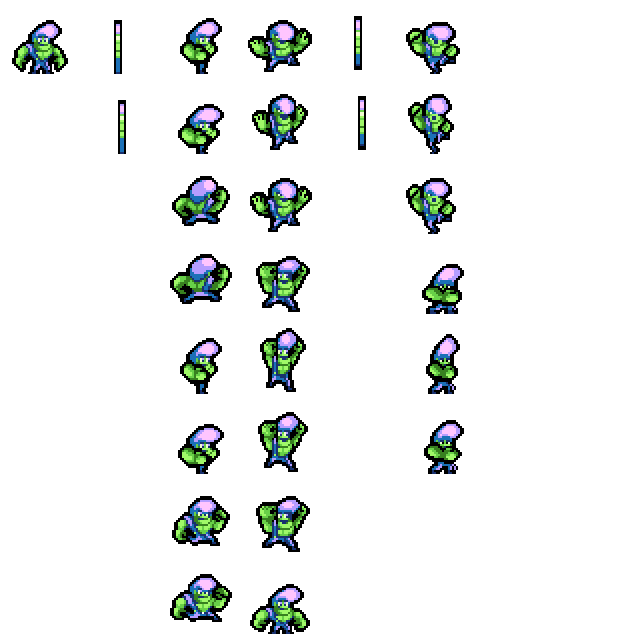
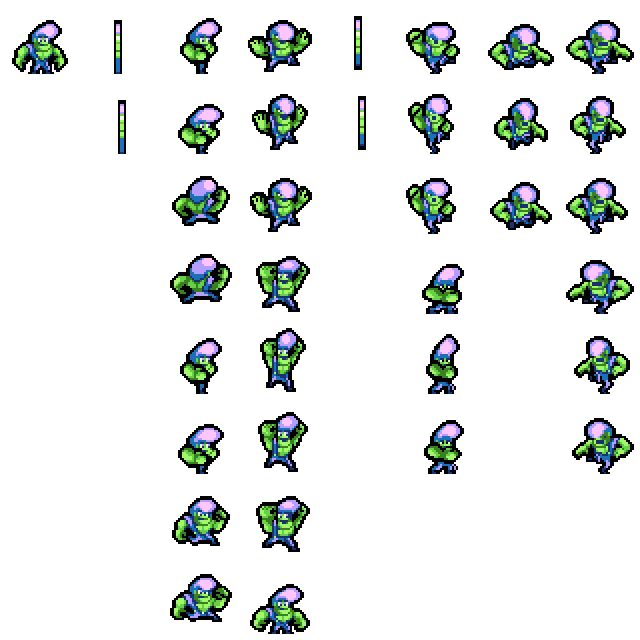
added hurt/status animation code, can no longer use items/weapons while hurt or already attacking (fixes #2), cannot do anything while hurt

diff --git a/src/component/Player.js b/src/component/Player.js
@@ -175,50 +175,52 @@ Player.prototype.update = function(time) {
 		vfa = 0;
 	}
 
-	var controls = [],
-		strength = this.grounded ? gGroundWalk : gAirWalk;
-	if (keys[kLeft]) {
-		va -= strength;
-		controls.push('left');
+	var controls = [];
+	if (!sprite.flags.noControl) {
+		var strength = this.grounded ? gGroundWalk : gAirWalk;
+		if (keys[kLeft]) {
+			va -= strength;
+			controls.push('left');
 
-		if (!sprite.flags.preventTurn) {
-			sprite.face(-1, this.grounded);
-			this.facing = dLeft;
-		}
-	} else if (keys[kRight]) {
-		va += strength;
-		controls.push('right');
+			if (!sprite.flags.noTurn) {
+				sprite.face(-1, this.grounded);
+				this.facing = dLeft;
+			}
+		} else if (keys[kRight]) {
+			va += strength;
+			controls.push('right');
 
-		if (!sprite.flags.preventTurn) {
-			sprite.face(1, this.grounded);
-			this.facing = dRight;
-		}
-	}
-
-	if (keys[kJump]) {
-		if (floor) {
-			vr += gJumpStrength;
-			this.jumpt = gJumpTimer;
-			controls.push('jump');
-			this.body.play('player.jump');
-		} else if (this.jumpt < gJumpDoubleTimer && jumpd && jumplg) {
-			this.jumpt = gJumpTimer;
-			this.jumpd = false;
-			vr = gJumpStrength;
-			controls.push('jumpd');
-			this.body.play('player.jump');
-		} else if (this.jumpt >= gJumpAffectTimer && !jumplg) {
-			vr += gJumpAffectStrength;
-			controls.push('jump+');
+			if (!sprite.flags.noTurn) {
+				sprite.face(1, this.grounded);
+				this.facing = dRight;
+			}
 		}
 
-		this.jumplg = false;
-	} else {
-		this.jumplg = true;
-	}
+		if (keys[kJump]) {
+			if (floor) {
+				vr += gJumpStrength;
+				this.jumpt = gJumpTimer;
+				controls.push('jump');
+				this.body.play('player.jump');
+			} else if (this.jumpt < gJumpDoubleTimer && jumpd && jumplg) {
+				this.jumpt = gJumpTimer;
+				this.jumpd = false;
+				vr = gJumpStrength;
+				controls.push('jumpd');
+				this.body.play('player.jump');
+			} else if (this.jumpt >= gJumpAffectTimer && !jumplg) {
+				vr += gJumpAffectStrength;
+				controls.push('jump+');
+			}
 
-	if (keys[kSwing]) controls.push('swing');
-	if (keys[kThrow]) controls.push('throw');
+			this.jumplg = false;
+		} else {
+			this.jumplg = true;
+		}
+
+		if (keys[kSwing]) controls.push('swing');
+		if (keys[kThrow]) controls.push('throw');
+	} else controls.push('nocontrol');
 
 	if (wall && !ceiling) {
 		flags.push('wall');
@@ -370,6 +372,7 @@ Player.prototype.hurt = function(by, damage) {
 
 	this.game.fire(ePlayerHurt, { by, damage });
 	this.voice.play('woody.hurt');
+	this.sprite.hurt();
 };
 
 Player.prototype.hurtTimer = function(t) {

diff --git a/src/spr/woody.js b/src/spr/woody.js
@@ -9,21 +9,10 @@ import {
 	aLand,
 	aThrow,
 	aAxe,
+	aHurt,
+	aStatus,
 } from '../anims';
 import { eThrow, eSwing } from '../events';
-
-/*
-Spritesheet Layout (72x72)
-
-Stand	FlipL	Run1	Jump1	JFlipL	Throw1
-		FlipR	Run2	Jump2	JFlipR	Throw2
-				Run3	Jump3			Throw3
-				Run4	Fall1			Throw4
-				Run5	Fall2			Throw5
-				Run6	Fall3			Throw6
-				Run7	Land1
-				Run8	Land2
-*/
 
 const animations = {
 	[aStand]: {
@@ -80,7 +69,7 @@ const animations = {
 
 	[aThrow]: {
 		priority: 2,
-		flags: { preventTurn: true },
+		flags: { noAttack: true, noTurn: true },
 		frames: [
 			{ c: 5, r: 0, t: 75 },
 			{ c: 5, r: 1, t: 75 },
@@ -93,7 +82,7 @@ const animations = {
 
 	[aAxe]: {
 		priority: 8,
-		flags: { preventTurn: true },
+		flags: { noAttack: true, noTurn: true },
 		frames: [
 			{ c: 5, r: 0, t: 75, hotspot: { x: -48, y: 44 } },
 			{ c: 5, r: 1, t: 75, hotspot: { x: -48, y: 44 } },
@@ -101,6 +90,29 @@ const animations = {
 			{ c: 5, r: 3, t: 75, hotspot: { x: 24, y: 20 }, event: eSwing },
 			{ c: 5, r: 4, t: 75, hotspot: { x: 24, y: 20 } },
 			{ c: 5, r: 5, t: 150, hotspot: { x: 24, y: 20 } },
+		],
+	},
+
+	[aHurt]: {
+		priority: 10,
+		flags: { noControl: true },
+		frames: [
+			{ c: 6, r: 0, t: 75 },
+			{ c: 6, r: 1, t: 75 },
+			{ c: 6, r: 2, t: 300 },
+		],
+	},
+
+	[aStatus]: {
+		priority: 20,
+		loop: true,
+		frames: [
+			{ c: 7, r: 0, t: 90 },
+			{ c: 7, r: 1, t: 90 },
+			{ c: 7, r: 2, t: 90 },
+			{ c: 7, r: 3, t: 90 },
+			{ c: 7, r: 4, t: 90 },
+			{ c: 7, r: 5, t: 90 },
 		],
 	},
 };
@@ -163,6 +175,10 @@ export default class WoodyController extends AnimController {
 
 	throw() {
 		this.play(aThrow);
+	}
+
+	hurt() {
+		this.play(aHurt);
 	}
 
 	onstep() {

diff --git a/src/item/Rock.js b/src/item/Rock.js
@@ -178,6 +178,15 @@ RockItem.prototype.draw = function(c, x, y) {
 	c.translate(-x, -y);
 };
 
+RockItem.prototype.canUse = function() {
+	const player = this.game.player;
+	return (
+		player.alive &&
+		!player.sprite.flags.noAttack &&
+		!player.sprite.flags.noControl
+	);
+};
+
 RockItem.prototype.use = function() {
 	this.game.player.sprite.play(aThrow, false, { [eThrow]: this.thrown });
 };

diff --git a/src/weapon/Axe.js b/src/weapon/Axe.js
@@ -204,7 +204,13 @@ AxeWeapon.prototype.update = function(t) {
 };
 
 AxeWeapon.prototype.canUse = function() {
-	return this.game.player.alive && this.cooldown <= 0;
+	const player = this.game.player;
+	return (
+		this.cooldown <= 0 &&
+		player.alive &&
+		!player.sprite.flags.noAttack &&
+		!player.sprite.flags.noControl
+	);
 };
 
 AxeWeapon.prototype.draw = function(c, x, y) {

diff --git a/src/component/Inventory.js b/src/component/Inventory.js
@@ -92,7 +92,7 @@ Inventory.prototype.draw = function(c) {
 };
 
 Inventory.prototype.canThrow = function() {
-	return this.items[0] && this.items[0].use;
+	return this.items[0] && this.items[0].canUse();
 };
 
 Inventory.prototype.throw = function() {

diff --git a/src/anims.js b/src/anims.js
@@ -6,4 +6,6 @@ export const aStand = 'stand',
 	aFall = 'fall',
 	aLand = 'land',
 	aThrow = 'throw',
-	aAxe = 'axe';
+	aAxe = 'axe',
+	aHurt = 'hurt',
+	aStatus = 'status';
